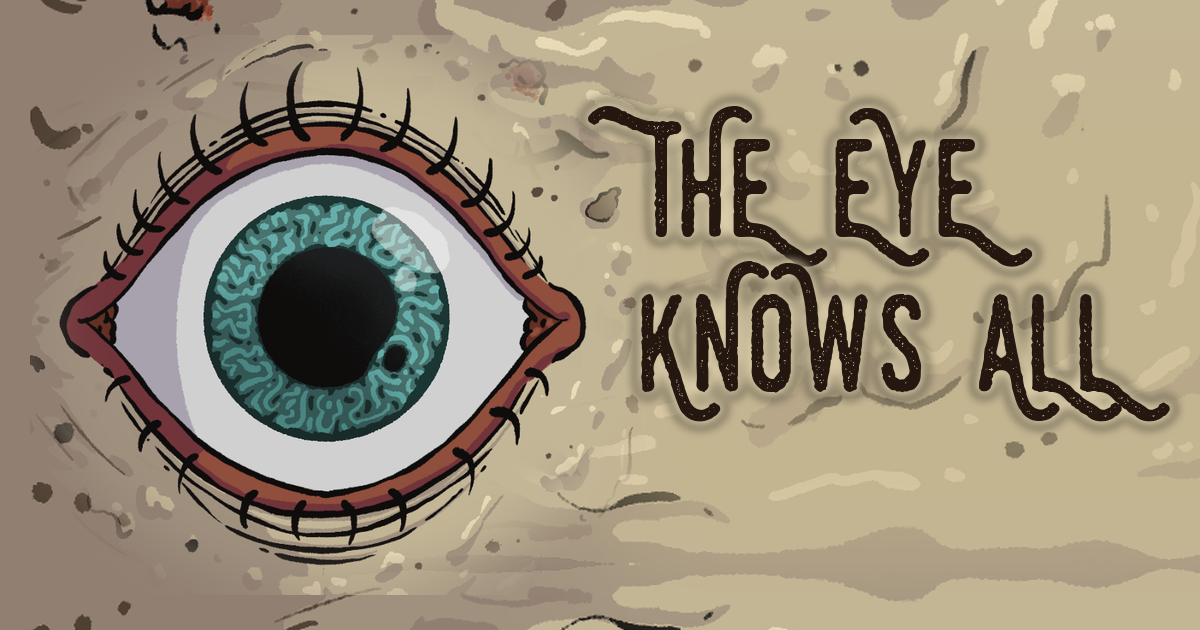
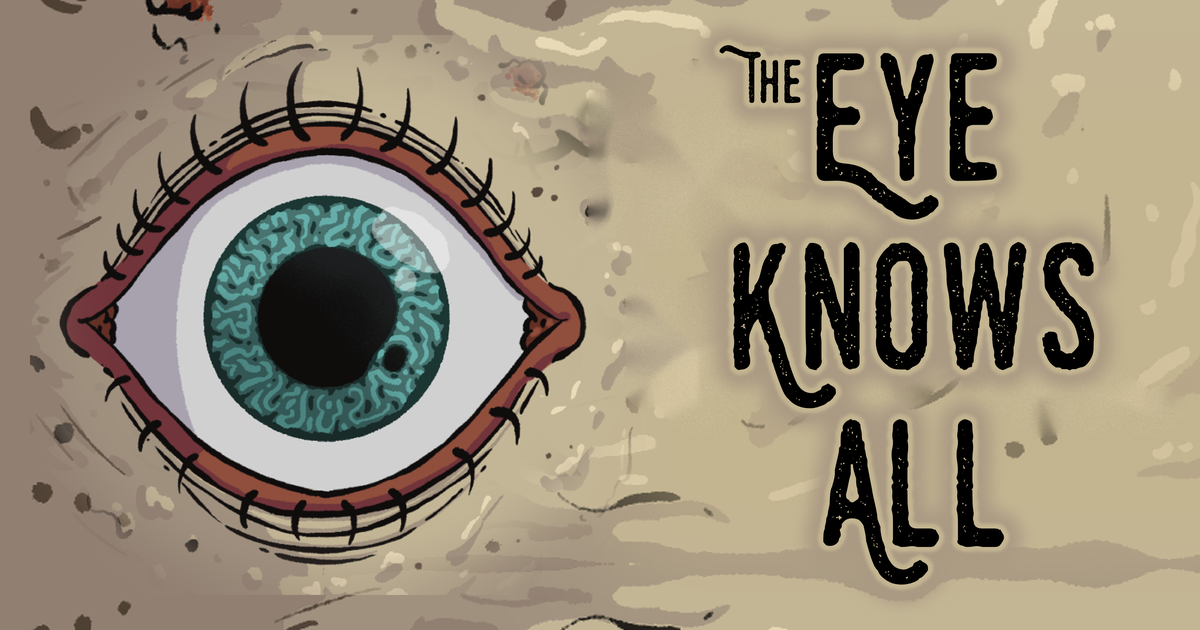
Add files via upload

Changed region(s): [[0.4933, 0.0603, 0.9867, 0.9349]]

diff --git a/index.html b/index.html
@@ -5,17 +5,22 @@
 <meta name="viewport" content="width=device-width, initial-scale=1.0, viewport-fit=cover">
 <title>The Eye Knows All</title>
 <meta name="apple-mobile-web-app-title" content="The Eye Knows All">
+<meta name="description" content="A mind-reading novelty app. Type a question and The Eye gives the answer.">
 <meta name="copyright" content="&copy; 2026 Joshua Stacy. All rights reserved.">
 <meta name="application-name" content="The Eye Knows All">
 <link rel="icon" type="image/png" href="assets/icon.png?v=6">
 <link rel="apple-touch-icon" href="assets/apple-touch-icon.png?v=6">
 <meta property="og:title" content="The Eye Knows All">
+<meta property="og:description" content="A mind-reading novelty app. Type a question and The Eye gives the answer.">
 <meta property="og:type" content="website">
-<meta property="og:image" content="assets/link-preview.png?v=2">
+<meta property="og:url" content="https://eyeknowsall.com/">
+<meta property="og:image" content="https://eyeknowsall.com/assets/link-preview.png?v=3">
 <meta property="og:image:width" content="1200">
 <meta property="og:image:height" content="630">
 <meta name="twitter:card" content="summary_large_image">
-<meta name="twitter:image" content="assets/link-preview.png?v=2">
+<meta name="twitter:title" content="The Eye Knows All">
+<meta name="twitter:description" content="A mind-reading novelty app. Type a question and The Eye gives the answer.">
+<meta name="twitter:image" content="https://eyeknowsall.com/assets/link-preview.png?v=3">
 <style>
   @font-face{
     font-family: 'Monthoers';
@@ -1460,7 +1465,6 @@
   var CARD_RANK_NAMES = ['', 'Ace', 'Two', 'Three', 'Four', 'Five', 'Six', 'Seven', 'Eight', 'Nine', 'Ten'];
   var CARD_SUITS = { h:'heart', d:'diamond', c:'club', s:'spade' };
   var SUIT_CHARS = { heart:'\u2665', diamond:'\u2666', club:'\u2663', spade:'\u2660' };
-  var CARD_SUIT_NAMES = { heart:'Hearts', diamond:'Diamonds', club:'Clubs', spade:'Spades' };
 
   function matchSuitWord(w){
     if (!w) return null;
@@ -1494,19 +1498,6 @@
       if (w.length >= 3 && w.charAt(0) === names[i].charAt(0) && editDistance(w, names[i]) <= 1) return CARD_RANKS[names[i]];
     }
     return null;
-  }
-
-  function editDistance(a, b){
-    var prev = [], cur, i, j;
-    for (j = 0; j <= b.length; j++) prev[j] = j;
-    for (i = 1; i <= a.length; i++){
-      cur = [i];
-      for (j = 1; j <= b.length; j++){
-        cur[j] = Math.min(prev[j] + 1, cur[j - 1] + 1, prev[j - 1] + (a.charAt(i - 1) === b.charAt(j - 1) ? 0 : 1));
-      }
-      prev = cur;
-    }
-    return prev[b.length];
   }
 
   // returns { text:'Seven of Clubs', suit:'club' } or null if it can't be read as a card

diff --git a/README.md b/README.md
@@ -8,4 +8,8 @@ Copyright (c) 2026 Joshua Stacy. All rights reserved.
 
 The code and artwork in this repository (including all images, animation frames, icons and layout) may not be copied, reused, modified, redistributed or used in other projects, in whole or in part, without written permission from the owner. Third-party fonts remain under their own licenses.
 
+## Font credit
+
+The text uses Monthoers by swistblnk (https://www.dafont.com/monthoers.font), which its creator lists as free for personal and commercial use. This copy has been modified to add a custom apostrophe and four playing-card suit symbols (spade, club, heart, diamond). Please support the original designer.
+
 To ask for permission, contact the owner through this GitHub account.
